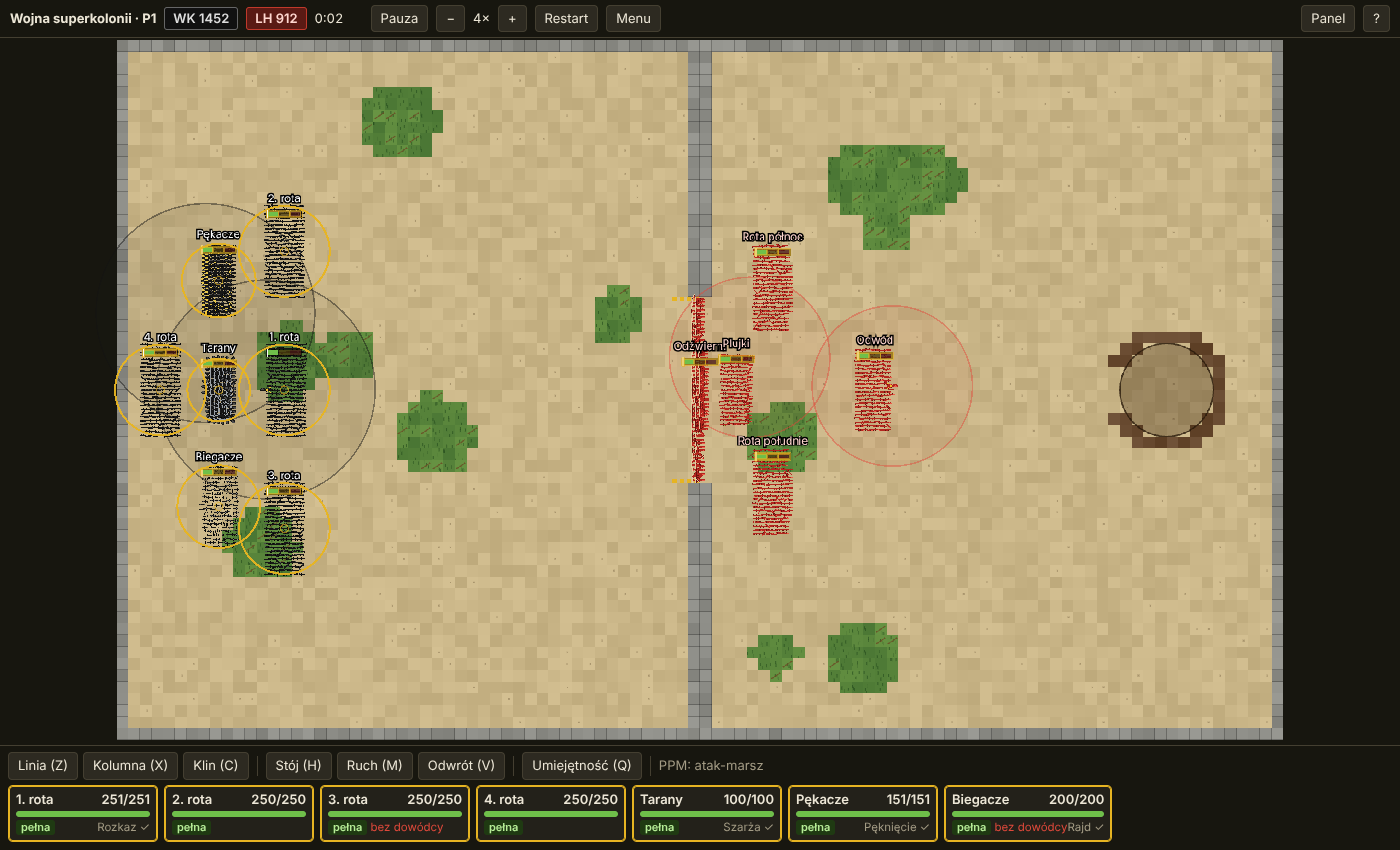
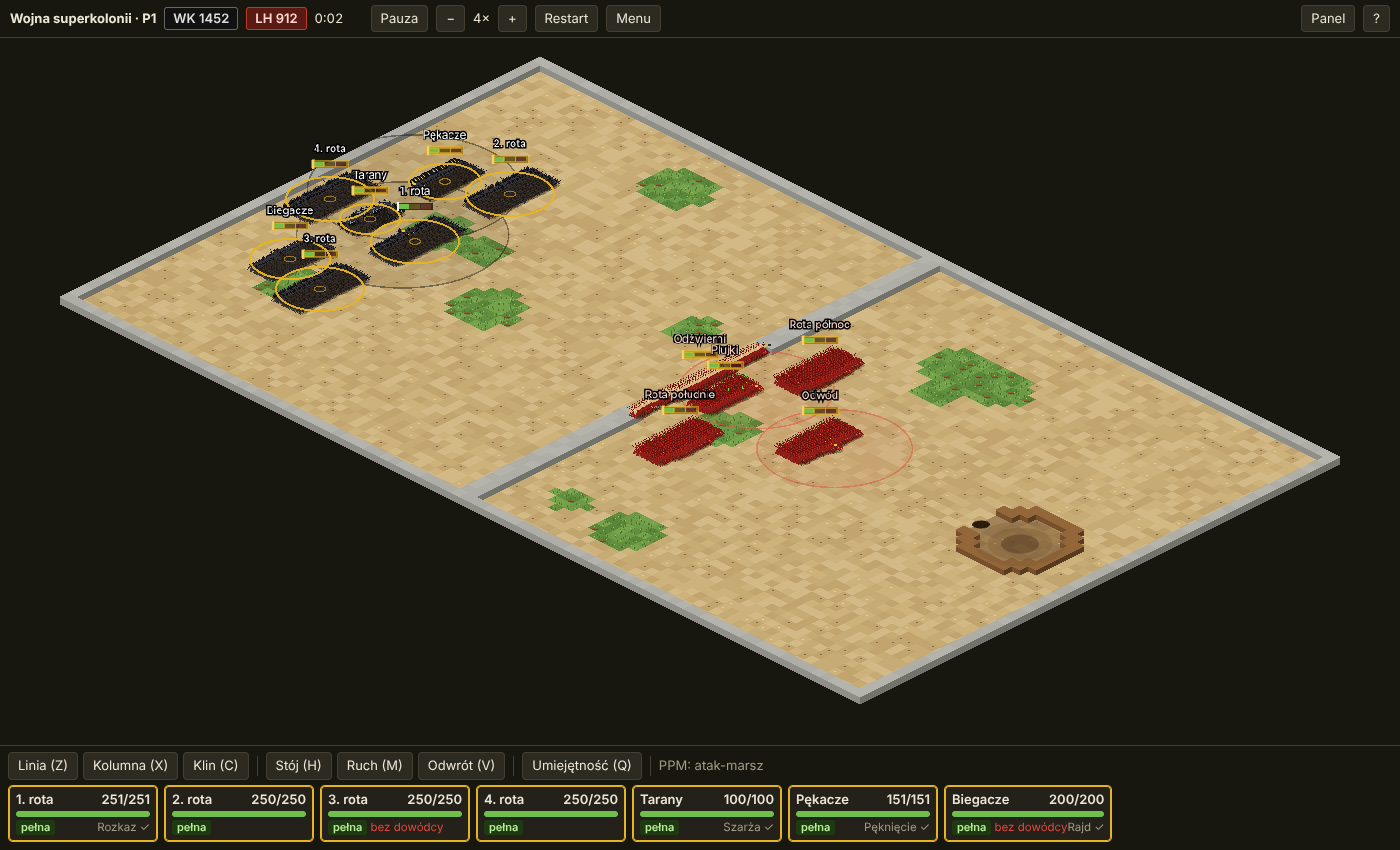
P1: widok izometryczny 2:1 (teren, mrówki w 16 kierunkach, zaznaczanie w rzucie), blok ISO do ponownego użycia
Claude-Session: https://claude.ai/code/session_015bWVywXDmmptfndPZFffbj

diff --git a/prototypy/p1-bitwa.html b/prototypy/p1-bitwa.html
@@ -965,79 +965,135 @@ if (typeof module !== 'undefined') module.exports = Sim;
   $('stage').appendChild(app.view);
   const world = new PIXI.Container(); app.stage.addChild(world);
   const gGround = new PIXI.Graphics(), gOver = new PIXI.Graphics(), labels = new PIXI.Container();
-  let terrainSpr = null, antsPC = null, sprites = [], shown = null, atlas = null;
+  let terrainSpr = null, antsPC = null, sprites = [], shown = null, dirOf = null, atlas = null;
   const cam = { x: 0, y: 0, z: 1 };
-  const TYPES = Object.keys(DEFS0.units);
-  const COL = { WK: { b: '#161616', d: '#050505', h: '#4c4c4c', a: '#8a8a8a' }, LH: { b: '#b3261e', d: '#6a120e', h: '#ee5b49', a: '#f6b26a' } };
-
-  function pixBlob(c, cx, cy, rx, ry, col) {
-    c.fillStyle = col;
-    for (let y = -ry; y <= ry; y++) { const w = Math.round(rx * Math.sqrt(Math.max(0, 1 - (y * y) / (ry * ry + 0.01)))); c.fillRect(cx - w, cy + y, 2 * w + 1, 1); }
+  /*ISO-BEGIN*/
+  // ---------- widok izometryczny 2:1 (kod do ponownego użycia w P2 i P3) ----------
+  // Rzut: x ekranu = ox + (x - y) * 0.5, y ekranu = (x + y) * 0.25. Światło z lewej góry: lewe ściany jaśniejsze od prawych,
+  // cień pada w prawo-dół. Trzy tony na materiał, bez czystej czerni i bez gradientów (zasady skilla retro-rts-sprites).
+  const ISO = {
+    pad: 24, wallH: 7,
+    ox: 960 * 0.5 + 24,
+    sx(x, y) { return this.ox + (x - y) * 0.5; },
+    sy(x, y) { return (x + y) * 0.25 + this.pad; },
+    // odwrotność: współrzędne kontenera -> świat
+    wx(cx, cy) { const u = (cx - this.ox) * 2, v = (cy - this.pad) * 4; return (u + v) / 2; },
+    wy(cx, cy) { const u = (cx - this.ox) * 2, v = (cy - this.pad) * 4; return (v - u) / 2; }
+  };
+  const PAL = {
+    WK: { body: '#1d1d20', hi: '#5a5a62', dark: '#0e0e10', leg: '#34343a', acc: '#9aa0a6' },
+    LH: { body: '#b3261e', hi: '#f07a66', dark: '#6a120e', leg: '#8e1d17', acc: '#f2c27a' }
+  };
+  const DIRS = 16, CELLW = 32, CELLH = 24, AX = 16, AY = 15;
+  function disc(c, cx, cy, r, col) {
+    c.fillStyle = col; const R = Math.max(1, Math.round(r));
+    for (let y = -R; y <= R; y++) { const w = Math.round(Math.sqrt(Math.max(0, r * r + 0.3 - y * y))); if (w > 0) c.fillRect(Math.round(cx) - w + 1, Math.round(cy) + y, 2 * w - 1, 1); }
   }
-  function drawAnt(c, ox, oy, t, s) {
-    const k = COL[s]; c.save(); c.translate(ox, oy);
-    c.fillStyle = k.d;
-    const leg = (x, dy) => { c.fillRect(x, 8 - dy, 1, 1); c.fillRect(x - 1, 8 - dy - 1, 1, 1); c.fillRect(x, 8 + dy, 1, 1); c.fillRect(x - 1, 8 + dy + 1, 1, 1); };
-    const lg = t === 'biegacz' ? 6 : 4;
-    c.fillStyle = k.d; for (const x of [10, 13, 16]) { c.fillRect(x, 8 - lg, 1, lg * 2 + 1); }
-    let abR = 5, abY = 3, hd = 3, th = 3;
-    if (t === 'biegacz') { abR = 5; abY = 2; hd = 2; th = 2; }
-    if (t === 'pekacz') { abR = 7; abY = 6; }
-    if (t === 'taran') { hd = 4; th = 4; abR = 5; abY = 4; }
-    if (t === 'dowodca') { abR = 6; abY = 4; hd = 4; th = 3; }
-    pixBlob(c, 5, 8, abR, abY, k.b); pixBlob(c, 5 - 1, 8 - 1, Math.max(1, abR - 2), Math.max(1, abY - 2), k.h);
-    pixBlob(c, 13, 8, 3, th, k.b); pixBlob(c, 20, 8, hd, hd, k.b);
-    c.fillStyle = k.h; c.fillRect(19, 7 - hd + 2, 2, 1);
-    c.fillStyle = k.d; c.fillRect(22, 5, 2, 1); c.fillRect(22, 11, 2, 1); // czułki
-    if (t === 'pekacz') pixBlob(c, 4, 8, 4, 3, '#e8c84a');
-    if (t === 'taran') { c.fillStyle = '#9aa0a6'; c.fillRect(11, 4, 3, 9); c.fillRect(21, 5, 2, 7); }
-    if (t === 'odzwierny') { c.fillStyle = s === 'LH' ? '#e8c9a0' : '#8c8c8c'; c.fillRect(21, 2, 3, 13); c.fillStyle = k.d; c.fillRect(21, 2, 1, 13); }
-    if (t === 'plujka') { c.fillStyle = k.b; c.fillRect(0, 6, 2, 1); c.fillStyle = '#7bd34a'; c.fillRect(0, 5, 2, 2); }
-    if (t === 'dowodca') { c.fillStyle = '#f2c230'; c.fillRect(12, 6, 4, 5); c.fillRect(22, 2, 1, 2); c.fillRect(22, 13, 1, 2); c.fillRect(20, 3, 1, 2); c.fillRect(20, 12, 1, 2); }
-    if (t === 'biegacz') { c.fillStyle = k.a; c.fillRect(16, 7, 2, 2); }
-    c.restore();
-  }
-  function makeAtlas() {
-    const cv = document.createElement('canvas'); cv.width = 24 * TYPES.length; cv.height = 16 * 2;
-    const c = cv.getContext('2d'); c.imageSmoothingEnabled = false;
-    const base = PIXI.BaseTexture.from(cv, { scaleMode: PIXI.SCALE_MODES.NEAREST });
-    const tex = {};
-    SIDES.forEach((s, si) => TYPES.forEach((t, ti) => { drawAnt(c, ti * 24, si * 16, t, s); tex[s + t] = new PIXI.Texture(base, new PIXI.Rectangle(ti * 24, si * 16, 24, 16)); }));
-    base.update();
-    return tex;
-  }
-  function makeTerrain(sim) {
-    const cv = document.createElement('canvas'); cv.width = sim.W; cv.height = sim.H; const c = cv.getContext('2d');
-    const C = sim.CELL, nz = (x, y) => { let h = Math.imul(x * 374761393 + y * 668265263, 1274126177); h = (h ^ (h >>> 13)) >>> 0; return (h % 1000) / 1000; };
-    for (let r = 0; r < sim.ROWS; r++) for (let col = 0; col < sim.COLS; col++) {
-      const v = sim.grid[r * sim.COLS + col], n = nz(col, r), x = col * C, y = r * C;
-      if (v === 0) { const l = 176 + n * 22; c.fillStyle = 'rgb(' + (l + 14) + ',' + (l - 6) + ',' + (l - 52) + ')'; }
-      else if (v === 2) { const l = n * 30; c.fillStyle = 'rgb(' + (74 + l) + ',' + (118 + l) + ',' + (52 + l * 0.5) + ')'; }
-      else if (v === 1) { const l = 128 + n * 26; c.fillStyle = 'rgb(' + l + ',' + l + ',' + (l - 6) + ')'; }
-      else { const l = n * 22; c.fillStyle = 'rgb(' + (92 + l) + ',' + (62 + l) + ',' + (36 + l) + ')'; }
-      c.fillRect(x, y, C, C);
-      if (v === 0 && n > 0.93) { c.fillStyle = 'rgba(90,70,40,.35)'; c.fillRect(x + n * 9, y + n * 7, 2, 2); }
-      if (v === 2) { c.fillStyle = 'rgba(40,80,30,.7)'; for (let k = 0; k < 3; k++) c.fillRect(x + ((n * 13 * (k + 1)) % 14), y + ((n * 29 * (k + 2)) % 14), 1, 4); if (n > 0.8) { c.strokeStyle = '#6b4a24'; c.lineWidth = 1.2; c.beginPath(); c.moveTo(x + 2, y + 12); c.lineTo(x + 14, y + 4); c.stroke(); } }
-      if (v === 1) { c.fillStyle = 'rgba(0,0,0,.25)'; c.fillRect(x, y + C - 1, C, 1); c.fillRect(x + C - 1, y, 1, C); }
+  function ball(c, cx, cy, r, p) { disc(c, cx, cy, r, p.dark); disc(c, cx - 0.4, cy - 0.4, r - 0.7, p.body); if (r >= 1.8) disc(c, cx - r * 0.35, cy - r * 0.4, Math.max(0.8, r * 0.38), p.hi); }
+  function drawIsoAnt(c, ox, oy, type, side, dir) {
+    const p = PAL[side], th = dir * Math.PI * 2 / DIRS, ca = Math.cos(th), sa = Math.sin(th);
+    const m = { infantry: 1.45, taran: 1.8, biegacz: 1.35, pekacz: 1.55, odzwierny: 1.7, plujka: 1.4, dowodca: 1.9 }[type] || 1.45;
+    // punkt lokalny (a wzdłuż kierunku, b w bok, z wysokość) -> piksel
+    const P = (a, b, z) => { const dx = a * ca - b * sa, dy = a * sa + b * ca; return [ox + AX + m * (dx - dy) * 0.5, oy + AY + m * (dx + dy) * 0.25 - z, dx + dy]; };
+    // cień rzucany: elipsa w prawo-dół
+    c.fillStyle = 'rgba(40,28,12,0.32)';
+    const sh = P(0, 0, 0), rw = 5.2 * m * 0.62, rh = 2.2 * m * 0.62;
+    for (let y = -Math.ceil(rh); y <= Math.ceil(rh); y++) { const w = Math.round(rw * Math.sqrt(Math.max(0, 1 - (y * y) / (rh * rh + 0.01)))); c.fillRect(Math.round(sh[0] + 1) - w, Math.round(sh[1] + 1) + y, 2 * w + 1, 1); }
+    const slim = type === 'biegacz', swell = type === 'pekacz', big = type === 'taran' || type === 'dowodca';
+    const abR = swell ? 3.6 : (slim ? 1.7 : 2.4), thR = slim ? 1.2 : 1.6, hdR = big ? 2.2 : (slim ? 1.3 : 1.7);
+    const abA = swell ? -5.2 : -4.2, hdA = 3.9;
+    const abZ = type === 'plujka' ? 5.4 : 2.6;
+    // nogi (trzy pary), pod ciałem
+    c.fillStyle = p.leg;
+    const reach = slim ? 5.4 : 4.2;
+    for (const a of [-1.2, 0.2, 1.6]) for (const b of [-1, 1]) {
+      const s = P(a, 0, 2.4), k = P(a + 0.8, b * reach * 0.8, 3.6), f = P(a + (a > 0 ? 1.8 : (a < 0 ? -1.8 : 0.4)), b * reach * 1.15, 0);
+      for (const [u, v] of [[s, k], [k, f]]) { const n = 6; for (let i = 0; i <= n; i++) c.fillRect(Math.round(u[0] + (v[0] - u[0]) * i / n), Math.round(u[1] + (v[1] - u[1]) * i / n), 1, 1); }
     }
-    const nc = sim.defs.world.nest; c.fillStyle = 'rgba(70,45,20,.35)'; c.beginPath(); c.arc(nc[0], nc[1], sim.defs.world.nestR, 0, 7); c.fill();
-    c.strokeStyle = 'rgba(40,25,10,.8)'; c.lineWidth = 2; c.beginPath(); c.arc(nc[0], nc[1], sim.defs.world.nestR, 0, 7); c.stroke();
-    // znaczniki przejścia
+    // części ciała od najdalszej do najbliższej kamery
+    const parts = [
+      { pt: P(abA, 0, abZ), r: abR, kind: 'ab' }, { pt: P(0, 0, 3.0), r: thR, kind: 'th' }, { pt: P(hdA, 0, 3.2), r: hdR, kind: 'hd' }
+    ].sort((u, v) => u.pt[2] - v.pt[2]);
+    for (const q of parts) {
+      ball(c, q.pt[0], q.pt[1], q.r, p);
+      if (q.kind === 'ab' && swell) disc(c, q.pt[0] - 0.4, q.pt[1] - 0.2, 1.7, '#e8c84a');
+      if (q.kind === 'ab' && type === 'plujka') { const t = P(abA - 1.6, 0, abZ + 1.2); disc(c, t[0], t[1], 1, '#7bd34a'); }
+      if (q.kind === 'th' && type === 'dowodca') { c.fillStyle = '#f2c230'; c.fillRect(Math.round(q.pt[0]) - 1, Math.round(q.pt[1]) - 2, 3, 2); }
+      if (q.kind === 'th' && type === 'taran') { c.fillStyle = p.acc; c.fillRect(Math.round(q.pt[0]) - 1, Math.round(q.pt[1]) - 2, 3, 1); }
+      if (q.kind === 'hd' && type === 'taran') { disc(c, q.pt[0] + (ca - sa) * 0.6, q.pt[1] - 1, 1.3, p.acc); }
+    }
+    // odźwierny: płaska głowa-czop prostopadle do kierunku
+    if (type === 'odzwierny') {
+      for (const b of [-3, -1.5, 0, 1.5, 3]) { const q = P(hdA + 1.2, b, 3.2); disc(c, q[0], q[1], 1.5, side === 'LH' ? '#d9b27c' : '#8c8c94'); }
+      const q = P(hdA + 1.4, 0, 3.4); disc(c, q[0] - 0.5, q[1] - 0.5, 1, side === 'LH' ? '#f0d9b0' : '#b8b8c0');
+    }
+    // czułki
+    c.fillStyle = p.dark;
+    const hp = P(hdA, 0, 3.2);
+    for (const b of [-1, 1]) { const a1 = P(hdA + 2.4, b * 1.6, 4.4), a2 = P(hdA + 3.6, b * 2.6, 5.4); c.fillRect(Math.round(a1[0]), Math.round(a1[1]), 1, 1); c.fillRect(Math.round(a2[0]), Math.round(a2[1]), 1, 1); }
+    if (type === 'dowodca') { c.fillStyle = '#f2c230'; for (const b of [-1, 1]) { const a3 = P(hdA + 3.8, b * 2.8, 5.8); c.fillRect(Math.round(a3[0]), Math.round(a3[1]), 1, 1); } }
+  }
+  const TYPE_LIST = Object.keys(DEFS0.units);
+  function makeAntAtlas() {
+    const cv = document.createElement('canvas'); cv.width = CELLW * DIRS; cv.height = CELLH * TYPE_LIST.length * 2;
+    const c = cv.getContext('2d'); c.imageSmoothingEnabled = false;
+    const base = PIXI.BaseTexture.from(cv, { scaleMode: PIXI.SCALE_MODES.NEAREST }), tex = {};
+    SIDES.forEach((s, si) => TYPE_LIST.forEach((t, ti) => { const row = (si * TYPE_LIST.length + ti) * CELLH; for (let d = 0; d < DIRS; d++) { drawIsoAnt(c, d * CELLW, row, t, s, d); tex[s + t + d] = new PIXI.Texture(base, new PIXI.Rectangle(d * CELLW, row, CELLW, CELLH)); } }));
+    base.update(); tex.cv = cv; return tex;
+  }
+  // kafel 16x8 piksele: szerokości wierszy 4,8,12,16,16,12,8,4 składają się bez szczelin
+  const ROWW = [4, 8, 12, 16, 16, 12, 8, 4];
+  function tile(c, cx, top, col) { c.fillStyle = col; for (let j = 0; j < 8; j++) c.fillRect(cx - ROWW[j] / 2, top + j, ROWW[j], 1); }
+  function isoBox(c, cx, top, h, cTop, cL, cR) {
+    for (let px = 0; px < 8; px++) { const yb = top + 4 + (px >> 1); c.fillStyle = cL; c.fillRect(cx - 8 + px, yb - h + 1, 1, h); }
+    for (let px = 8; px < 16; px++) { const yb = top + 7 - ((px - 8) >> 1); c.fillStyle = cR; c.fillRect(cx - 8 + px, yb - h + 1, 1, h); }
+    tile(c, cx, top - h, cTop);
+  }
+  function makeIsoTerrain(sim) {
+    const C = sim.CELL, cols = sim.COLS, rows = sim.ROWS, wallH = ISO.wallH;
+    const cw = Math.ceil((sim.W + sim.H) * 0.5 + ISO.pad * 2), ch = Math.ceil((sim.W + sim.H) * 0.25 + ISO.pad * 2 + 12);
+    const cv = document.createElement('canvas'); cv.width = cw; cv.height = ch; const c = cv.getContext('2d');
+    const nz = (x, y, s) => { let h = Math.imul(x * 374761393 + y * 668265263 + s * 2246822519, 1274126177); h = (h ^ (h >>> 13)) >>> 0; return (h % 1000) / 1000; };
+    const nest = sim.defs.world.nest, nestR = sim.defs.world.nestR;
+    const SAND = ['#cdb27c', '#c7ab74', '#d2b985', '#c2a56e'], DARKSAND = ['#a98a5a', '#a2835a', '#b0925f', '#9c7e52'];
+    const GRASS = ['#6d9a46', '#628f3f', '#76a24c', '#5a8639'];
+    for (let d = 0; d < rows + cols - 1; d++) for (let r = Math.max(0, d - cols + 1); r <= Math.min(rows - 1, d); r++) {
+      const col = d - r, v = sim.grid[r * cols + col], cx = ISO.sx(col * C, r * C) + 0, top = ISO.sy(col * C, r * C) - ISO.pad + ISO.pad;
+      const n = nz(col, r, 1), k = Math.floor(n * 4), mx = (col + 0.5) * C, my = (r + 0.5) * C, dn = Math.hypot(mx - nest[0], my - nest[1]);
+      if (v === 1) { tile(c, cx, top, '#9a9a94'); isoBox(c, cx, top, wallH, k % 2 ? '#b4b4ad' : '#aeaea7', '#8f8f89', '#72726d'); }
+      else if (v === 3) { tile(c, cx, top, DARKSAND[k]); isoBox(c, cx, top, 6, '#93673a', '#76502d', '#573a20'); }
+      else if (v === 2) {
+        tile(c, cx, top, GRASS[k]);
+        c.fillStyle = '#4a7430'; for (let t = 0; t < 3; t++) { const px = cx - 5 + Math.floor(nz(col, r, 5 + t) * 10), py = top + 1 + Math.floor(nz(col, r, 9 + t) * 5); c.fillRect(px, py, 1, 2); }
+        c.fillStyle = '#9bc35f'; { const px = cx - 4 + Math.floor(nz(col, r, 20) * 8), py = top + 2 + Math.floor(nz(col, r, 21) * 4); c.fillRect(px, py, 1, 1); }
+        if (n > 0.86) { c.fillStyle = '#6b4a24'; c.fillRect(cx - 4, top + 5, 6, 1); c.fillStyle = '#8a6334'; c.fillRect(cx - 4, top + 4, 5, 1); }
+      } else {
+        tile(c, cx, top, dn < nestR + 14 ? DARKSAND[k] : SAND[k]);
+        if (n > 0.9) { c.fillStyle = 'rgba(110,86,50,0.7)'; c.fillRect(cx - 3 + Math.floor(n * 10) % 6, top + 2 + (k % 3), 2, 1); }
+        else if (n < 0.06) { c.fillStyle = '#e4cf9f'; c.fillRect(cx - 2, top + 3, 2, 1); }
+      }
+    }
+    // gniazdo: kopiec w trzech tonach i ciemne wejście od strony zachodniej
+    const rings = [[nestR, 'rgba(120,86,48,0.28)'], [nestR * 0.72, 'rgba(120,86,48,0.3)'], [nestR * 0.42, 'rgba(70,46,24,0.4)']];
+    for (const [rr, col] of rings) { c.fillStyle = col; c.beginPath(); c.ellipse(ISO.sx(nest[0], nest[1]), ISO.sy(nest[0], nest[1]), rr * 0.7071, rr * 0.3536, 0, 0, 7); c.fill(); }
+    const ex = ISO.sx(nest[0] - 78, nest[1]), ey = ISO.sy(nest[0] - 78, nest[1]);
+    c.fillStyle = '#2b1b0d'; c.beginPath(); c.ellipse(ex, ey, 9, 4, 0, 0, 7); c.fill();
+    // znaczniki przejścia: pasy ostrzegawcze na końcach muru
     const wx = sim.defs.world.wallX, my = sim.H / 2, hw = sim.defs.world.passage / 2;
-    c.fillStyle = '#e6b422'; for (const yy of [my - hw, my + hw]) for (let k = -2; k < 2; k++) { c.save(); c.translate(wx - 18 + (yy < my ? 0 : 0), yy + (yy < my ? 0 : -6)); c.fillRect(k * 10, 0, 6, 6); c.restore(); }
+    for (const yy of [my - hw, my + hw]) for (let t = 0; t < 4; t++) { c.fillStyle = t % 2 ? '#2a2a2a' : '#e6b422'; c.fillRect(Math.round(ISO.sx(wx, yy + (yy < my ? -2 : 2))) - 6 + t * 3, Math.round(ISO.sy(wx, yy + (yy < my ? -2 : 2))) - wallH - 1, 3, 2); }
     return PIXI.Texture.from(cv);
   }
+  /*ISO-END*/
+
   function setupScene(sim) {
     world.removeChildren(); gGround.clear(); labels.removeChildren();
-    if (!atlas) atlas = makeAtlas();
-    terrainSpr = new PIXI.Sprite(makeTerrain(sim));
-    antsPC = new PIXI.ParticleContainer(sim.cap, { vertices: true, position: true, rotation: true, uvs: true, tint: true }, 16384, false);
-    sprites = []; shown = new Uint8Array(sim.cap);
-    const dflt = atlas.WKinfantry;
+    if (!atlas) atlas = makeAntAtlas();
+    terrainSpr = new PIXI.Sprite(makeIsoTerrain(sim));
+    antsPC = new PIXI.ParticleContainer(sim.cap, { vertices: false, position: true, rotation: false, uvs: true, tint: true }, 16384, false);
+    sprites = []; shown = new Uint8Array(sim.cap); dirOf = new Uint8Array(sim.cap).fill(255);
     for (let i = 0; i < sim.cap; i++) {
-      const sp = new PIXI.Sprite(i < sim.count ? atlas[SIDES[sim.side[i]] + sim.names[sim.type[i]]] : dflt);
-      sp.anchor.set(0.5); const sz = i < sim.count ? sim.T.size[sim.type[i]] : sim.T.size[sim.ti.infantry];
-      sp.scale.set(sz * 0.62); sp.alpha = 0; sprites.push(sp); antsPC.addChild(sp);
+      const sp = new PIXI.Sprite(atlas.WKinfantry0);
+      sp.anchor.set(AX / CELLW, AY / CELLH); sp.alpha = 0; sprites.push(sp); antsPC.addChild(sp);
     }
     world.addChild(terrainSpr, gGround, antsPC, gOver, labels);
     sim.comps.forEach((c) => {
@@ -1046,11 +1102,12 @@ if (typeof module !== 'undefined') module.exports = Sim;
     });
   }
   function fitCamera() {
-    const w = app.screen.width, h = app.screen.height - 150, z = Math.min(w / S.sim.W, h / S.sim.H);
-    cam.z = z; cam.x = (w - S.sim.W * z) / 2; cam.y = 40 + (h - S.sim.H * z) / 2; applyCam();
+    const w = app.screen.width, h = app.screen.height - 150, cw = (S.sim.W + S.sim.H) * 0.5 + ISO.pad * 2, ch = (S.sim.W + S.sim.H) * 0.25 + ISO.pad * 2 + 12, z = Math.min(w / cw, h / ch);
+    cam.z = z; cam.x = (w - cw * z) / 2; cam.y = 40 + (h - ch * z) / 2; applyCam();
   }
   function applyCam() { world.scale.set(cam.z); world.position.set(cam.x, cam.y); }
-  const toWorld = (sx, sy) => [(sx - cam.x) / cam.z, (sy - cam.y) / cam.z];
+  const toContainer = (sx, sy) => [(sx - cam.x) / cam.z, (sy - cam.y) / cam.z];
+  const toWorld = (sx, sy) => { const [cx, cy] = toContainer(sx, sy); return [ISO.wx(cx, cy), ISO.wy(cx, cy)]; };
 
   // ---------- bitwa: start / restart ----------
   function startBattle() {
@@ -1078,17 +1135,18 @@ if (typeof module !== 'undefined') module.exports = Sim;
   const doRetreat = () => issue({ k: 'order', kind: 'retreat', x: 0, y: 0 });
 
   // ---------- zaznaczanie ----------
+  // zaznaczanie działa na rzutowanych pozycjach mrówek (współrzędne kontenera), więc ramka na ekranie jest prostokątem
   function selectIn(x0, y0, x1, y1, add) {
     const sim = S.sim, set = new Set(), mine = SIDES.indexOf(S.side);
     const lx = Math.min(x0, x1), hx = Math.max(x0, x1), ly = Math.min(y0, y1), hy = Math.max(y0, y1);
-    for (let i = 0; i < sim.count; i++) if (sim.alive[i] && sim.side[i] === mine && sim.x[i] >= lx && sim.x[i] <= hx && sim.y[i] >= ly && sim.y[i] <= hy) set.add(sim.comp[i]);
+    for (let i = 0; i < sim.count; i++) if (sim.alive[i] && sim.side[i] === mine) { const px = ISO.sx(sim.x[i], sim.y[i]), py = ISO.sy(sim.x[i], sim.y[i]); if (px >= lx && px <= hx && py >= ly && py <= hy) set.add(sim.comp[i]); }
     if (!add) S.selected.clear();
     set.forEach((id) => S.selected.add(id));
   }
-  function clickSelect(wx, wy, add) {
-    const sim = S.sim, mine = SIDES.indexOf(S.side), r = 12 / cam.z + 4;
+  function clickSelect(cx, cy, add) {
+    const sim = S.sim, mine = SIDES.indexOf(S.side), r = 10 / cam.z + 3;
     let best = -1, bd = r * r;
-    for (let i = 0; i < sim.count; i++) if (sim.alive[i] && sim.side[i] === mine) { const d = (sim.x[i] - wx) ** 2 + (sim.y[i] - wy) ** 2; if (d < bd) { bd = d; best = i; } }
+    for (let i = 0; i < sim.count; i++) if (sim.alive[i] && sim.side[i] === mine) { const d = (ISO.sx(sim.x[i], sim.y[i]) - cx) ** 2 + (ISO.sy(sim.x[i], sim.y[i]) - 4 - cy) ** 2; if (d < bd) { bd = d; best = i; } }
     if (best < 0) { if (!add) S.selected.clear(); return; }
     const id = sim.comp[best];
     if (add) { S.selected.has(id) ? S.selected.delete(id) : S.selected.add(id); } else { S.selected.clear(); S.selected.add(id); }
@@ -1116,7 +1174,7 @@ if (typeof module !== 'undefined') module.exports = Sim;
     if (box.on) {
       box.on = false;
       const moved = Math.hypot(box.x1 - box.x0, box.y1 - box.y0) > 5, add = e.shiftKey;
-      const a = toWorld(box.x0, box.y0), b = toWorld(box.x1, box.y1);
+      const a = toContainer(box.x0, box.y0), b = toContainer(box.x1, box.y1);
       if (moved) selectIn(a[0], a[1], b[0], b[1], add); else clickSelect(b[0], b[1], add);
       buildCards();
     }
@@ -1138,7 +1196,7 @@ if (typeof module !== 'undefined') module.exports = Sim;
       if (e.ctrlKey || e.altKey || e.metaKey) { S.groups[m[1]] = [...S.selected]; flash('Grupa ' + m[1] + ': ' + S.groups[m[1]].length + ' rot'); }
       else if (S.groups[m[1]]) {
         S.selected = new Set(S.groups[m[1]].filter((id) => S.sim.comps[id].alive > 0));
-        if (S.lastGroup === m[1] && S.selected.size) { const cs = [...S.selected].map((id) => S.sim.comps[id]); cam.x = app.screen.width / 2 - cs[0].ax * cam.z; cam.y = app.screen.height / 2 - cs[0].ay * cam.z; applyCam(); }
+        if (S.lastGroup === m[1] && S.selected.size) { const cs = [...S.selected].map((id) => S.sim.comps[id]); cam.x = app.screen.width / 2 - ISO.sx(cs[0].ax, cs[0].ay) * cam.z; cam.y = app.screen.height / 2 - ISO.sy(cs[0].ax, cs[0].ay) * cam.z; applyCam(); }
         S.lastGroup = m[1]; buildCards();
       }
       return;
@@ -1218,36 +1276,38 @@ if (typeof module !== 'undefined') module.exports = Sim;
   const HEX = { WK: 0x222222, LH: 0xc0392b };
   function render() {
     const sim = S.sim; if (!sim) return;
-    const p = antsPC.children, cnt = sim.count;
+    const p = antsPC.children, cnt = sim.count, K = DIRS / (Math.PI * 2);
     for (let i = 0; i < cnt; i++) {
       const sp = p[i];
       if (sim.alive[i]) {
-        if (!shown[i]) { shown[i] = 1; sp.texture = atlas[SIDES[sim.side[i]] + sim.names[sim.type[i]]]; sp.alpha = 1; }
-        sp.x = sim.x[i]; sp.y = sim.y[i]; sp.rotation = sim.heading[i];
+        const d = ((Math.round(sim.heading[i] * K) % DIRS) + DIRS) % DIRS, nm = SIDES[sim.side[i]] + sim.names[sim.type[i]];
+        if (!shown[i] || dirOf[i] !== d) { shown[i] = 1; dirOf[i] = d; sp.texture = atlas[nm + d]; sp.alpha = 1; }
+        sp.x = ISO.sx(sim.x[i], sim.y[i]); sp.y = ISO.sy(sim.x[i], sim.y[i]);
       } else if (shown[i]) { shown[i] = 0; sp.alpha = 0; }
     }
     gGround.clear(); gOver.clear();
+    const ell = (g, x, y, R) => g.drawEllipse(ISO.sx(x, y), ISO.sy(x, y), R * 0.7071, R * 0.3536);
     // zasięg dowódców na ziemi
     for (const s of SIDES) for (let i = 0; i < cnt; i++) if (sim.alive[i] && sim.names[sim.type[i]] === 'dowodca' && SIDES[sim.side[i]] === s) {
-      const R = sim.defs.scenario.sides[s].auraR; gGround.beginFill(HEX[s], 0.07).lineStyle(1.5 / cam.z, s === 'WK' ? 0x111111 : 0xe0483a, 0.45).drawCircle(sim.x[i], sim.y[i], R).endFill();
+      const R = sim.defs.scenario.sides[s].auraR; gGround.beginFill(HEX[s], 0.07).lineStyle(1.5 / cam.z, s === 'WK' ? 0x111111 : 0xe0483a, 0.45); ell(gGround, sim.x[i], sim.y[i], R); gGround.endFill();
     }
     for (const c of sim.comps) {
       const lb = c._label; if (c.alive <= 0) { lb.visible = false; continue; }
-      lb.visible = true; lb.scale.set(1 / cam.z * 0.9); lb.position.set(c.ax, c.ay - Math.sqrt(c.alive) * 2.6 - 14 / cam.z);
-      // wskaźnik kontroli: trzy segmenty + pasek
-      const w = 34 / cam.z, h = 5 / cam.z, x = c.ax - w / 2, y = c.ay - Math.sqrt(c.alive) * 2.6 - 10 / cam.z;
+      const sx = ISO.sx(c.ax, c.ay), sy = ISO.sy(c.ax, c.ay), up = Math.sqrt(c.alive) * 1.1 + 12;
+      lb.visible = true; lb.scale.set(1 / cam.z * 0.9); lb.position.set(sx, sy - up - 12 / cam.z);
+      // wskaźnik kontroli: trzy segmenty i znacznik wartości
+      const w = 34 / cam.z, h = 5 / cam.z, x = sx - w / 2, y = sy - up - 8 / cam.z;
       const cols = [0x6fbf4a, 0xe6b422, 0xe0483a];
       gOver.beginFill(0x000000, 0.7).drawRect(x - 1 / cam.z, y - 1 / cam.z, w + 2 / cam.z, h + 2 / cam.z).endFill();
       for (let k = 0; k < 3; k++) gOver.beginFill(cols[k], c.cstate === k ? 1 : 0.25).drawRect(x + k * w / 3, y, w / 3 - 0.5 / cam.z, h).endFill();
       gOver.beginFill(0xffffff, 0.95).drawRect(x + (1 - c.control / 100) * w - 0.5 / cam.z, y - 2 / cam.z, 1.5 / cam.z, h + 4 / cam.z).endFill();
       if (S.selected.has(c.id)) {
         const rad = Math.sqrt(c.alive) * 3.3 + 10;
-        gOver.lineStyle(2 / cam.z, 0xe6b422, 0.95).drawCircle(c.ax, c.ay, rad);
-        const o = c.order; gOver.lineStyle(1.2 / cam.z, 0xe6b422, 0.6).moveTo(c.ax, c.ay).lineTo(o.x, o.y).drawCircle(o.x, o.y, 4 / cam.z);
+        gOver.lineStyle(2 / cam.z, 0xe6b422, 0.95); ell(gOver, c.ax, c.ay, rad);
+        const o = c.order; gOver.lineStyle(1.2 / cam.z, 0xe6b422, 0.6).moveTo(sx, sy).lineTo(ISO.sx(o.x, o.y), ISO.sy(o.x, o.y)); ell(gOver, o.x, o.y, 8);
       }
     }
-    for (let k = markers.length - 1; k >= 0; k--) { const m = markers[k]; m.t -= 0.02; if (m.t <= 0) { markers.splice(k, 1); continue; } gOver.lineStyle(2 / cam.z, m.kind === 'move' ? 0x7fd0ff : 0xff7a5c, m.t).drawCircle(m.x, m.y, (1.2 - m.t) * 28 + 4); }
-    // ramka zaznaczania rysowana na warstwie ekranu
+    for (let k = markers.length - 1; k >= 0; k--) { const m = markers[k]; m.t -= 0.02; if (m.t <= 0) { markers.splice(k, 1); continue; } gOver.lineStyle(2 / cam.z, m.kind === 'move' ? 0x7fd0ff : 0xff7a5c, m.t); ell(gOver, m.x, m.y, (1.2 - m.t) * 56 + 8); }
     drawBox();
   }
   const boxG = new PIXI.Graphics(); app.stage.addChild(boxG);
@@ -1307,7 +1367,7 @@ if (typeof module !== 'undefined') module.exports = Sim;
     }
   });
 
-  window.__P1 = { S, startBattle, app, cam, SIDES };
+  window.__P1 = { S, startBattle, app, cam, SIDES, get atlas() { return atlas; } };
   buildParamPanel(); syncMenu(); changeSpeed(0); buildCmdBar();
   try { const t = localStorage.getItem('p1.params'); if (t && !q.get('autostart')) { /* zestaw wczytywany ręcznie */ } } catch (e) { /* brak dostępu do pamięci lokalnej */ }
   if (q.get('autostart')) startBattle();

diff --git a/docs/wnioski-p1.md b/docs/wnioski-p1.md
@@ -35,6 +35,6 @@ Wnioski z liczb:
 ## Nie zweryfikowane
 - Czy to jest fajne: czy dowodzenie rotami bawi, czy unikaty są czytelne w ruchu, czy po trzech bitwach da się powiedzieć, dlaczego się wygrało. Wymaga gry człowieka.
 - Wydajność 50 klatek/s przy 4000 mrówek w Chrome na typowym PC. Zmierzono tylko krok symulacji w Node: ok. 3900 mrówek, mediana 22 ms, p99 63 ms przy budżecie 50 ms (20 Hz), czyli krok bywa blisko budżetu w największym tłoku. Renderer w piaskownicy jest programowy (kilka klatek/s), więc FPS tu nic nie mówi.
-- Prototyp wymienia w 15.1 plik `wojna-superkolonii-prototyp-a-feromony.html` jako źródło kodu izometrii. Nie było go w sesji, więc rysowanie jest od zera, bez izometrii (widok z góry).
+- Plik `wojna-superkolonii-prototyp-a-feromony.html` z 15.1 nie był dostępny, a użytkownik ocenił go jako słabej jakości, więc rysowanie izometryczne napisano od nowa (blok `ISO-BEGIN`/`ISO-END` w `p1-bitwa.html`, do skopiowania do P2 i P3): rzut 2:1, kafle 16x8 px, mury jako niskie krawężniki, mrówki w 16 kierunkach generowane proceduralnie w trzech tonach z cieniem rzucanym. Podgląd: `docs/wyniki/p1-widok-izometryczny.png`.
 - Grafika zastępcza jest tymczasowa; AI jest proste (WK nie omija strefy kwasu, co jest główną przyczyną ich strat).
 - Dźwięk, kampania, ekonomia, lotnictwo, wnętrze gniazda, splot i beczki są poza zakresem P1.
